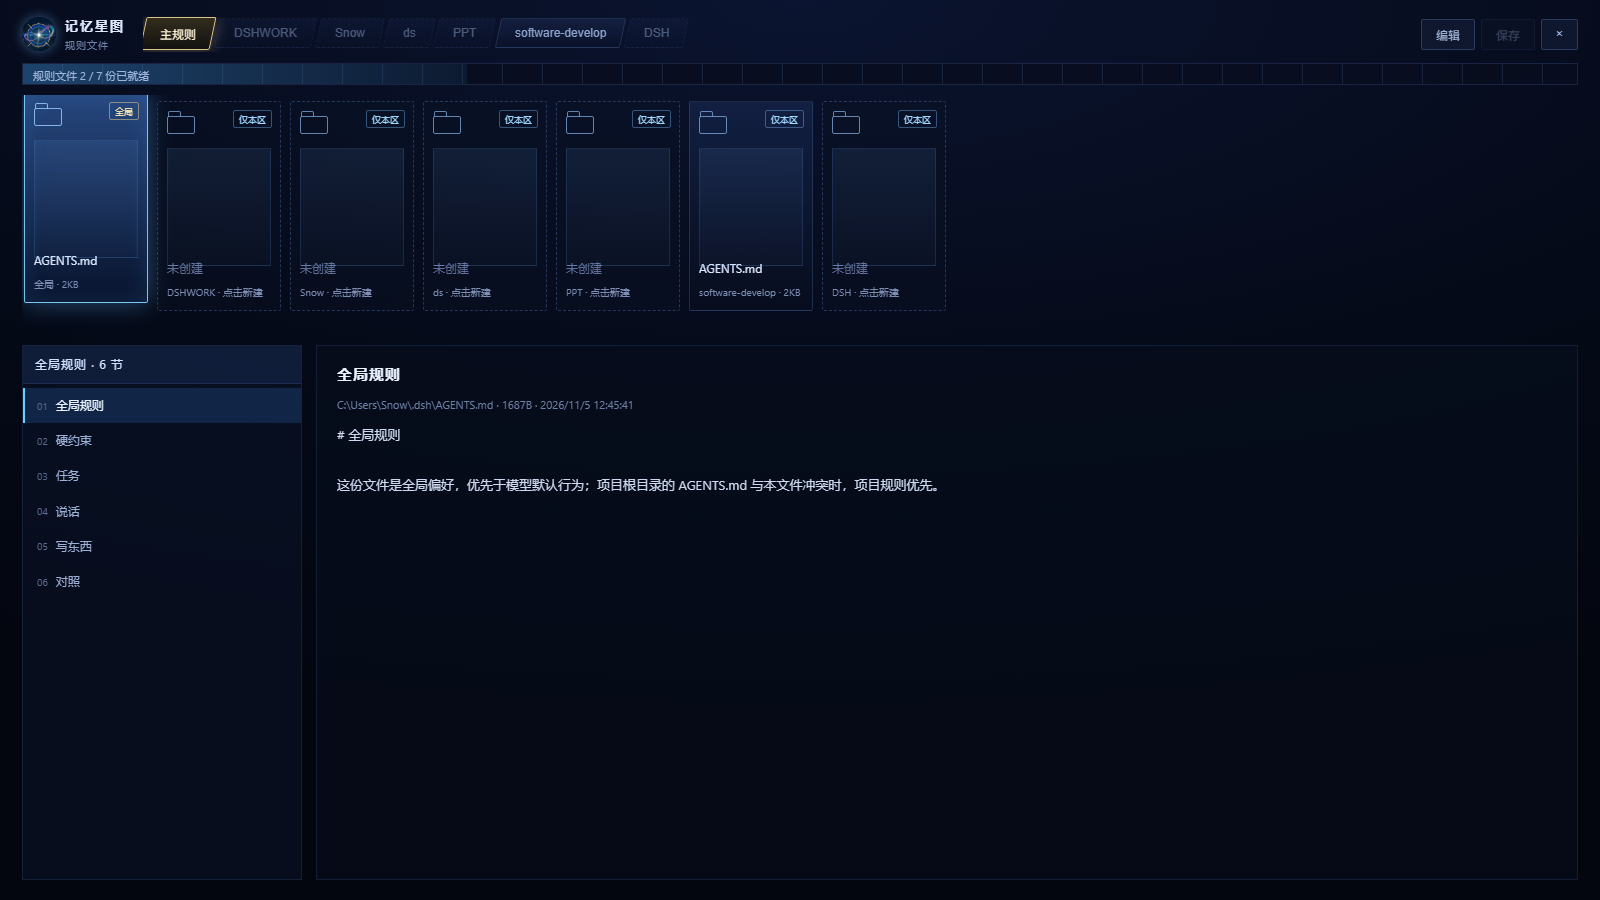
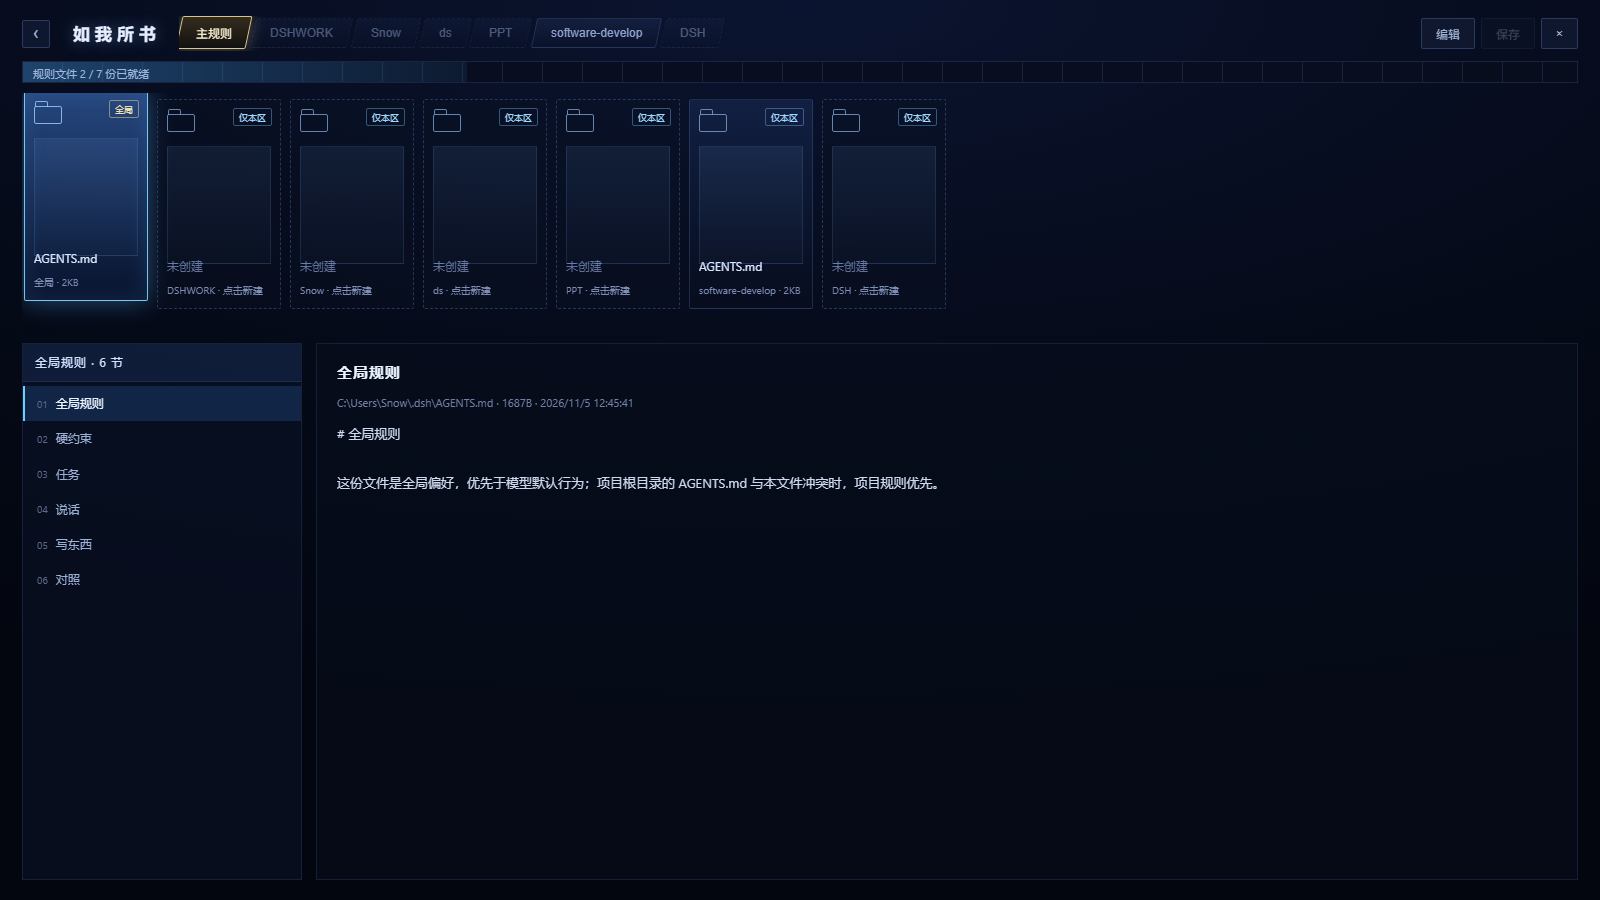
如我所书：返回键、徽标自转与光扫、凝缩收束对齐、标题改名、点空白回星图

diff --git a/public/index.html b/public/index.html
@@ -99,11 +99,13 @@
 #rules.hidden { display: none; }
 
 .r-head { display: flex; align-items: center; gap: 18px; }
-.r-brand { display: flex; align-items: center; gap: 9px; flex: 0 0 auto; }
-.r-brand img { width: 34px; height: 34px; border-radius: 50%; object-fit: cover;
-  box-shadow: 0 0 12px rgba(120,180,255,0.45); }
-.r-brand b { display: block; font-size: 13px; letter-spacing: 2px; color: #dfe9ff; }
-.r-brand span { display: block; font-size: 10px; color: #6f80a8; letter-spacing: 1px; }
+.r-back { flex: 0 0 auto; width: 28px; height: 28px; cursor: pointer; font-size: 18px; line-height: 1;
+  color: #9fb6dd; background: rgba(18,28,52,0.7); border: 1px solid rgba(120,150,220,0.28);
+  border-radius: 2px; padding-bottom: 2px; }
+.r-back:hover { color: #eaf4ff; border-color: rgba(130,200,255,0.6); box-shadow: 0 0 12px rgba(90,180,255,0.3); }
+.r-brand { display: flex; align-items: center; flex: 0 0 auto; }
+.r-brand b { font-size: 17px; letter-spacing: 5px; color: #e6eeff; text-indent: 5px;
+  text-shadow: 0 0 16px rgba(120,180,255,0.4); }
 
 .r-tabs { display: flex; align-items: center; gap: 4px; overflow-x: auto; flex: 1; padding-bottom: 2px; }
 .r-tabs::-webkit-scrollbar { height: 3px; }
@@ -230,10 +232,8 @@
 
 <div id="rules" class="hidden">
   <div class="r-head">
-    <div class="r-brand">
-      <img src="brand.jpg" alt="">
-      <div><b>记忆星图</b><span>规则文件</span></div>
-    </div>
+    <button class="r-back" id="r-back" title="回到星图">‹</button>
+    <div class="r-brand"><b>如我所书</b></div>
     <div class="r-tabs" id="r-tabs"></div>
     <div class="r-actions">
       <button id="r-edit">编辑</button>
@@ -794,6 +794,7 @@
     // 三幕推进
     if (stage === 'morph') {
       morphT = Math.max(0, Math.min(1, morphT + (dt / MORPH_SECONDS) * morphDir));
+      focusTarget.x *= 0.88; focusTarget.y *= 0.88; focusTarget.z *= 0.88;
       if (morphT >= 1) stage = 'symbol';
       else if (morphT <= 0) { stage = 'galaxy'; setChrome(true); }
     }
@@ -801,6 +802,7 @@
     const wantHover = (stage === 'selected' || stage === 'panel' || (stage === 'symbol' && symbolHover)) ? 1 : 0;
     hoverAmt += (wantHover - hoverAmt) * Math.min(1, dt * 7);
     if (wantHover) sweep = (sweep + dt / (stage === 'symbol' ? 1.2 : 2.6)) % 1;
+    iconSpin += dt * 0.18 * hoverAmt;
 
     const st = stageInfo();
     drawSky(t);
@@ -822,7 +824,7 @@
         drawLabels();
       }
     }
-    if (st.inf > 0.01) drawInfinity(st.inf, t);
+    if (st.inf > 0.5) drawInfinity(st.inf, t, st.infS);
     requestAnimationFrame(frame);
   }
 
@@ -830,24 +832,26 @@
   const SYMBOL_PX = 172;          // = 徽标 86 × 2
   const MORPH_SECONDS = 2.0;
   let stage = 'galaxy';           // galaxy | morph | symbol | selected | panel
-  let morphT = 0, morphDir = 1, sweep = 0, spin = 0, symbolHover = false, hoverAmt = 0;
+  let morphT = 0, morphDir = 1, sweep = 0, spin = 0, symbolHover = false, hoverAmt = 0, iconSpin = 0;
   let rulesData = null, rulesIdx = 0, rulesEditing = false, rulesSec = 0, rulesMtime = 0, rulesPath = '';
 
   const easeIO = (x) => (x < 0.5 ? 2 * x * x : 1 - Math.pow(-2 * x + 2, 2) / 2);
   const clamp01 = (x) => Math.max(0, Math.min(1, x));
 
   function stageInfo() {
-    if (stage === 'galaxy') return { k: 1, a: 1, inf: 0, roll: 0 };
+    if (stage === 'galaxy') return { k: 1, a: 1, inf: 0, roll: 0, infS: 1 };
     if (stage === 'morph') {
       const e = easeIO(morphT);
+      // 关键：星带先缩到几乎一个点、再淡出；图标从那个点大小（0.22 倍）长到 1 倍
       return {
-        k: 1 - 0.75 * e,                                   // 缩到 0.25，正好和 172px 的 ∞ 相当
-        roll: -Math.PI / 2 * e,                            // 顺时针转 90°：竖八字 → 横 ∞
-        a: 1 - clamp01((morphT - 0.45) / 0.45),
-        inf: clamp01((morphT - 0.55) / 0.45),
+        k: 1 - 0.945 * e,
+        roll: -Math.PI / 2 * e,
+        a: 1 - clamp01((morphT - 0.74) / 0.14),
+        inf: clamp01((morphT - 0.8) / 0.2),
+        infS: 0.22 + 0.78 * clamp01((morphT - 0.8) / 0.2),
       };
     }
-    return { k: 0, a: 0, inf: 1, roll: -Math.PI / 2 };
+    return { k: 0, a: 0, inf: 1, roll: -Math.PI / 2, infS: 1 };
   }
 
   // ---- ∞ 徽标：沿曲线逐段上色，接近素材里的青→紫→黄丝带 ----
@@ -863,19 +867,19 @@
     return mixHex(RIBBON[i], RIBBON[i + 1], v - i);
   }
 
-  function drawInfinity(alpha, t) {
+  function drawInfinity(alpha, t, infScale) {
     const cx = W / 2, cy = H / 2;
     const hover = hoverAmt;
     const selNow = stage === 'selected' || stage === 'panel';
     const f = 1 + 0.03 * hover;
-    const size = SYMBOL_PX * f;
+    const size = SYMBOL_PX * f * (infScale == null ? 1 : infScale);
     const A = size * 0.56, B = size * 0.30;
     const pulse = 0.5 + 0.5 * Math.sin(t * 2.4);
 
     ctx.save();
     ctx.globalCompositeOperation = 'lighter';
 
-    // 背后的紫蓝柔光
+    // 背后的紫蓝柔光（不跟着转，否则会有旋涡感）
     const bgR = size * 0.95;
     const bg = ctx.createRadialGradient(cx, cy, 0, cx, cy, bgR);
     bg.addColorStop(0, 'rgba(96,116,230,' + (0.22 * alpha).toFixed(3) + ')');
@@ -883,6 +887,12 @@
     bg.addColorStop(1, 'rgba(18,10,60,0)');
     ctx.fillStyle = bg;
     ctx.beginPath(); ctx.arc(cx, cy, bgR, 0, Math.PI * 2); ctx.fill();
+
+    // 外环、刻度、丝带、星核一起自转 —— 录屏里整个徽标是在慢慢转的
+    ctx.save();
+    ctx.translate(cx, cy);
+    ctx.rotate(iconSpin);
+    ctx.translate(-cx, -cy);
 
     // 外环与刻度：光扫经过的地方依次点亮
     const R0 = size * 0.74;
@@ -908,6 +918,21 @@
       ctx.lineTo(cx + Math.cos(ang) * (R0 + len), cy + Math.sin(ang) * (R0 + len));
       ctx.stroke();
     }
+    // 光扫头：沿环一段 50° 的高亮弧，跟着 sweep 走
+    if (hover > 0.05) {
+      const span = 0.9;
+      const g2 = ctx.createLinearGradient(
+        cx + Math.cos(head) * R0, cy + Math.sin(head) * R0,
+        cx + Math.cos(head - span) * R0, cy + Math.sin(head - span) * R0);
+      g2.addColorStop(0, 'rgba(255,240,200,' + (0.9 * hover * alpha).toFixed(3) + ')');
+      g2.addColorStop(1, 'rgba(255,220,150,0)');
+      ctx.strokeStyle = g2;
+      ctx.lineWidth = 3;
+      ctx.beginPath();
+      ctx.arc(cx, cy, R0, head - span, head);
+      ctx.stroke();
+    }
+
     // 8 根长刺
     for (let i = 0; i < 8; i++) {
       const ang = (i / 8) * Math.PI * 2 + Math.PI / 8;
@@ -921,33 +946,41 @@
     }
     ctx.globalAlpha = 1;
 
-    // 丝带：一条曲线逐段变色，先宽后窄画两遍
+    // 丝带：沿法线方向按宽度剖面填实，中间粗、交点细，像素材里那条拧起来的带子
     const pt = (u) => ({ x: cx + A * Math.sin(u), y: cy + B * Math.sin(u) * Math.cos(u) });
-    const N = 240;
-    const passes = [[11, 0.04], [6, 0.09], [3.6, 0.8]];
-    for (const [w, al] of passes) {
-      ctx.lineWidth = w;
-      ctx.lineCap = 'round';
-      for (let i = 0; i < N; i++) {
-        const u0 = (i / N) * Math.PI * 2, u1 = ((i + 1) / N) * Math.PI * 2;
-        const p0 = pt(u0), p1 = pt(u1);
-        ctx.strokeStyle = ribbonColor((p0.x - (cx - A)) / (2 * A));
+    const dpt = (u) => ({ x: A * Math.cos(u), y: B * (Math.cos(u) * Math.cos(u) - Math.sin(u) * Math.sin(u)) });
+    const N = 260;
+    const W0 = size * 0.024;
+    const band = (wid, al) => {
+      ctx.lineCap = 'butt';
+      ctx.lineWidth = 2.4;
+      for (let i = 0; i <= N; i++) {
+        const u = (i / N) * Math.PI * 2;
+        const q = pt(u), d = dpt(u);
+        const len = Math.hypot(d.x, d.y) || 1;
+        const nx = -d.y / len, ny = d.x / len;
+        const half = W0 * wid * (0.3 + 0.7 * Math.abs(Math.sin(u)));
+        ctx.strokeStyle = ribbonColor((q.x - (cx - A)) / (2 * A));
         ctx.globalAlpha = alpha * al;
         ctx.beginPath();
-        ctx.moveTo(p0.x, p0.y);
-        ctx.lineTo(p1.x, p1.y);
+        ctx.moveTo(q.x - nx * half, q.y - ny * half);
+        ctx.lineTo(q.x + nx * half, q.y + ny * half);
         ctx.stroke();
       }
-    }
+    };
+    band(2.4, 0.08);   // 外发光
+    band(1.0, 0.95);   // 实心带
 
     // 沿曲线的星尘
-    for (let i = 0; i < 520; i++) {
-      const u = ((i / 520) * Math.PI * 2 + spin) % (Math.PI * 2);
-      const p = pt(u);
-      const off = (i % 7 - 3) * 0.9;
-      ctx.fillStyle = ribbonColor((p.x - (cx - A)) / (2 * A));
-      ctx.globalAlpha = alpha * (0.2 + 0.5 * Math.abs(Math.cos(u)));
-      ctx.fillRect(p.x + off * 0.3, p.y + off, 1.5, 1.5);
+    for (let i = 0; i < 420; i++) {
+      const u = ((i / 420) * Math.PI * 2 + spin) % (Math.PI * 2);
+      const q = pt(u), d = dpt(u);
+      const len = Math.hypot(d.x, d.y) || 1;
+      const nx = -d.y / len, ny = d.x / len;
+      const off = ((i % 9) / 8 - 0.5) * 2 * W0 * 0.9 * (0.3 + 0.7 * Math.abs(Math.sin(u)));
+      ctx.fillStyle = ribbonColor((q.x - (cx - A)) / (2 * A));
+      ctx.globalAlpha = alpha * (0.18 + 0.45 * Math.abs(Math.cos(u)));
+      ctx.fillRect(q.x + nx * off, q.y + ny * off, 1.2, 1.2);
     }
 
     // 中央白核
@@ -986,7 +1019,8 @@
       if (dx) ctx.fillRect(cx - len, cy - 1.2, len * 2, 2.4);
       else ctx.fillRect(cx - 1.2, cy - len, 2.4, len * 2);
     }
-    ctx.restore();
+    ctx.restore();   // 自转
+    ctx.restore();   // 合成模式
 
     // 标题与上下细线
     if (alpha > 0.5) {
@@ -996,7 +1030,7 @@
       ctx.fillStyle = selNow ? '#eef5ff' : '#cfd9f5';
       ctx.font = '600 15px "Microsoft YaHei", system-ui, sans-serif';
       ctx.textAlign = 'center';
-      ctx.fillText('记忆星图', cx, ty);
+      ctx.fillText('如我所书', cx, ty);
       const ruleW = 78;
       ctx.strokeStyle = 'rgba(150,180,240,0.28)';
       ctx.lineWidth = 1;
@@ -1219,6 +1253,17 @@
     closeRules();
   };
   R('r-close').onclick = () => maybeClose();
+  R('r-back').onclick = () => {
+    if (rulesEditing && !confirm('还有没保存的改动，确定离开？')) return;
+    rulesEditing = false;
+    R('r-save').disabled = true;
+    R('r-edit').classList.remove('on');
+    R('r-edit-area').classList.add('hidden');
+    R('r-view').classList.remove('hidden');
+    R('rules').classList.add('hidden');
+    canvas.style.filter = '';
+    backToGalaxy();
+  };
   R('rules').addEventListener('click', (e) => { if (e.target.id === 'rules') maybeClose(); });
 
   R('r-edit').onclick = async () => {
@@ -1315,6 +1360,8 @@
       if (nearSymbol(e.clientX, e.clientY)) {
         if (stage === 'symbol') stage = 'selected';
         else openRules();
+      } else {
+        backToGalaxy();          // 点图标以外的黑色区域：放大回星图
       }
       return;
     }

diff --git a/README.md b/README.md
@@ -206,7 +206,9 @@ node test/smoke.mjs
 
 ## 规则区（三幕）
 
-点星图正中那颗白亮的星核，整块星图会定格、缩到屏幕中央，变成一枚 **172px 的 ∞ 徽标**（= 侧栏徽记的 2 倍）。悬停时光沿外环扫一圈，单击选中，再点一下展开规则区。
+点星图正中那颗白亮的星核，整块星图会定格、**绕中心转 90°**（竖着的八字转成横的 ∞），一路缩到屏幕中央 —— 缩到几乎一个点的时候，徽标从那个点里长出来，长到 **172px**（= 侧栏徽记的 2 倍）。
+
+悬停时整个徽标缓慢自转（约 10°/秒），一道光沿外环扫过、刻度依次点亮，星核呼吸；单击进入选中态，再点一下展开规则区。点徽标以外的黑色区域，徽标会放大回星图。
 
 ![凝缩后的 ∞](docs/emblem-172.png)
 
@@ -218,6 +220,7 @@ node test/smoke.mjs
 
 规则区面板里：
 
+- 左上角是「如我所书」和一个返回键（直接退回星图）
 - 顶栏 **7 个标签全排开、横向滚动**：主规则钉在最左不随滚动，右边 6 个工作区按最近会话时间排
 - 中段是一排竖向玻璃板，一块 = 一个 `AGENTS.md`；有文件的显示大小和日期，没有文件的显示「未创建」，点一下能建
 - 主规则角标是「全局」，工作区是「仅本区」——把分级写在明面上
